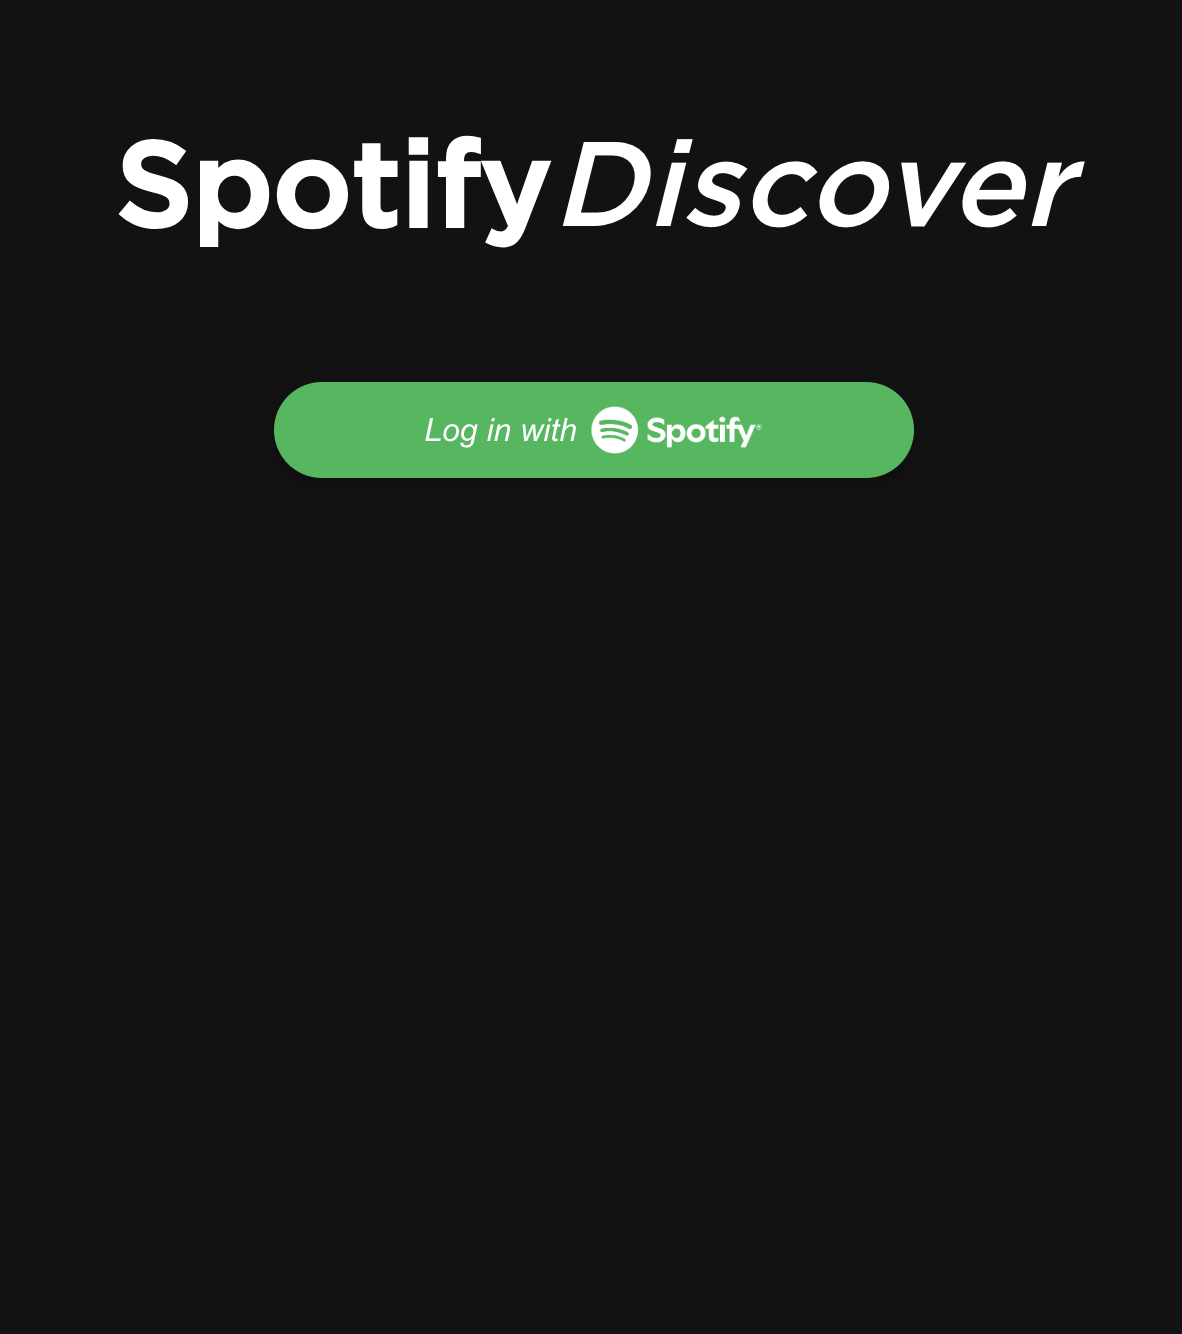
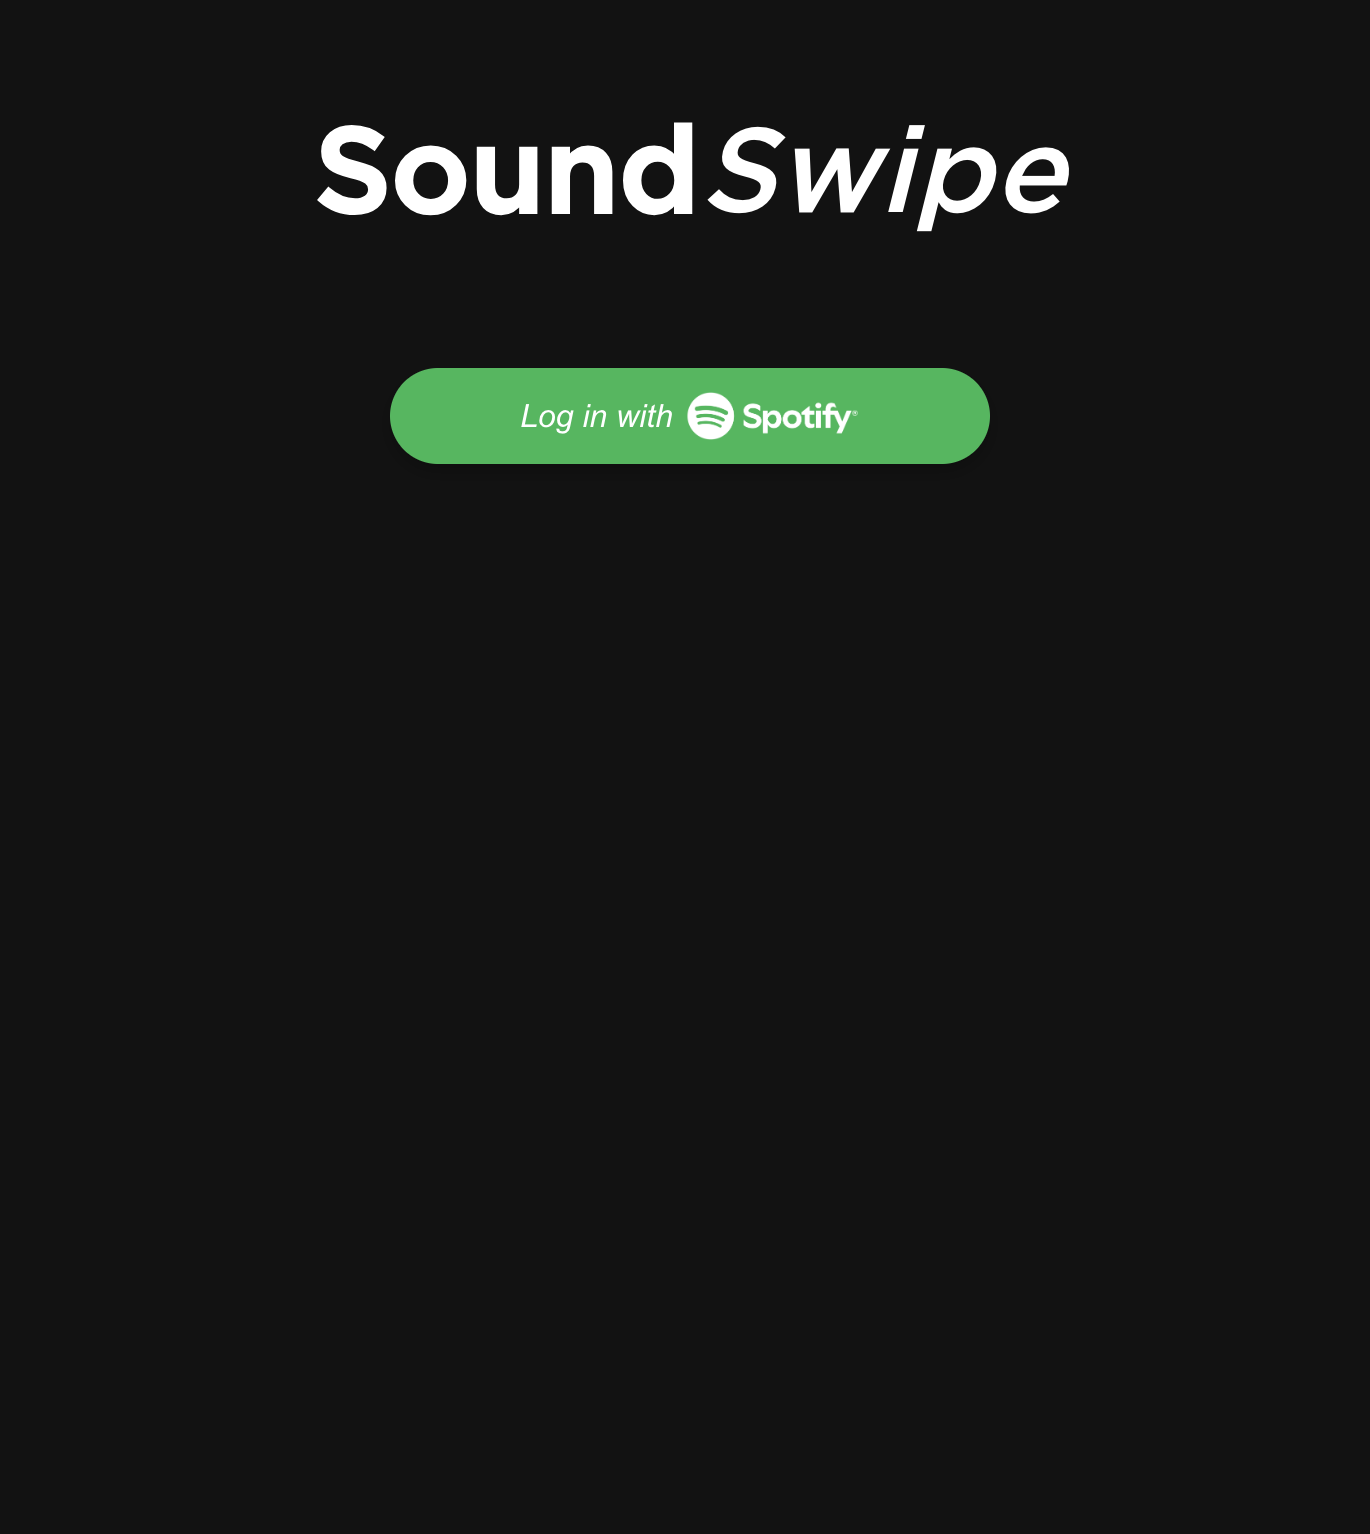
updated demo screenshots and readme

Changed region(s): [[0.2132, 0.2151, 0.7919, 0.3688], [0.0914, 0.0615, 0.9137, 0.1844]]

diff --git a/src/App.css b/src/App.css
@@ -20,82 +20,3 @@ html, body {
   font-family: 'Gotham';
   src: url('assets/fonts/Gotham Medium.otf');
 }
-
-.App-header-div {
-  width: 100%;
-  min-height: 15vh;
-  display: flex;
-  flex-direction: row;
-  align-items: center;
-  justify-content: center;
-  font-size: 60px;
-  color: white;
-}
-
-.App-header {
-  font-size: 60px;
-  font-family: 'Gotham';
-  font-weight: lighter;
-  font-style:italic;
-  color: white;
-}
-
-.card-container {
-  position: relative;
-  width: 300px;
-  height: 400px;
-  margin: 0 auto;
-  margin-top: 10px;
-  transition: transform 0.2s ease-in-out;
-}
-
-.card-container:hover {
-  transform: scale(1.05);
-}
-
-.card-container-none {
-  position: relative;
-  width: 400px;
-  height: 40px;
-  margin: 0 auto;
-}
-
-.spotify-login-btn {
-  display: flex;
-  align-items: center;
-  justify-content: center;
-  padding: 12px 20px;
-  font-size: 16px;
-  font-weight: normal;
-  font-style: italic;
-  background-color: #1DB954; /* Spotify green */
-  color: white;
-  border: none;
-  border-radius: 50px; /* Rounded corners */
-  cursor: pointer;
-  width: 100%;
-  max-width: 320px;
-  box-shadow: 0 4px 8px rgba(0, 0, 0, 0.2);
-  transition: all 0.3s ease-in-out;
-  justify-self: center;
-}
-
-.spotify-login-btn:hover {
-  background-color: #1ED760; /* Lighter green on hover */
-}
-
-.spotify-login-btn:focus {
-  outline: none; /* Remove outline when focused */
-}
-
-.spotify-login-btn img {
-  margin-left: 6px;
-  width: auto; /* Icon size */
-  height: 24px; /* Icon size */
-}
-
-.mute-btn-container {
-  z-index: 10;
-  justify-items: end;
-  margin-top: 118%;
-}

diff --git a/src/components/Home.js b/src/components/Home.js
@@ -243,10 +243,15 @@ const Home = () => {
           },
         }
       );
-    
+        
+      alert("Playlist created successfully!");
     } catch (error) {
       console.error("Error creating playlist:", error);
-      alert("Error creating playlist. Please try again.");
+      if (!tracks || tracks?.length == 0) {
+        alert("You must add at least one song to create a playlist");
+      } else {
+        alert("Error creating playlist. Please try again.");
+      }
     }
   };
 

diff --git a/README.md b/README.md
@@ -28,8 +28,8 @@ SoundSwipe is an interactive music discovery app that helps users explore new tr
 
 1. **Clone the repository**  
    ```bash  
-   git clone https://github.com/yourusername/spotify-discover.git  
-   cd spotify-discover
+   git clone https://github.com/yourusername/SoundSwipe.git  
+   cd SoundSwipe
    ```
 2. **Install dependencies**
   ```bash
@@ -54,11 +54,11 @@ SoundSwipe is an interactive music discovery app that helps users explore new tr
 
 ## Folder Structure
 
-spotify-discover/  
+SoundSwipe/  
 │  
 ├── public/                # Static assets  
 ├── src/                   # Source code  
-│   ├── components/        # React components (e.g., SwipeCard, Playlist, SpotifyPlayerComponent, HeartAnimation)  
+│   ├── components/        # React components and styles (e.g., Home, Callback, SwipeCard, Playlist, SpotifyPlayerComponent, HeartAnimation)  
 │   └── App.js             # Main app component  
 └── README.md              # Project documentation  
 
